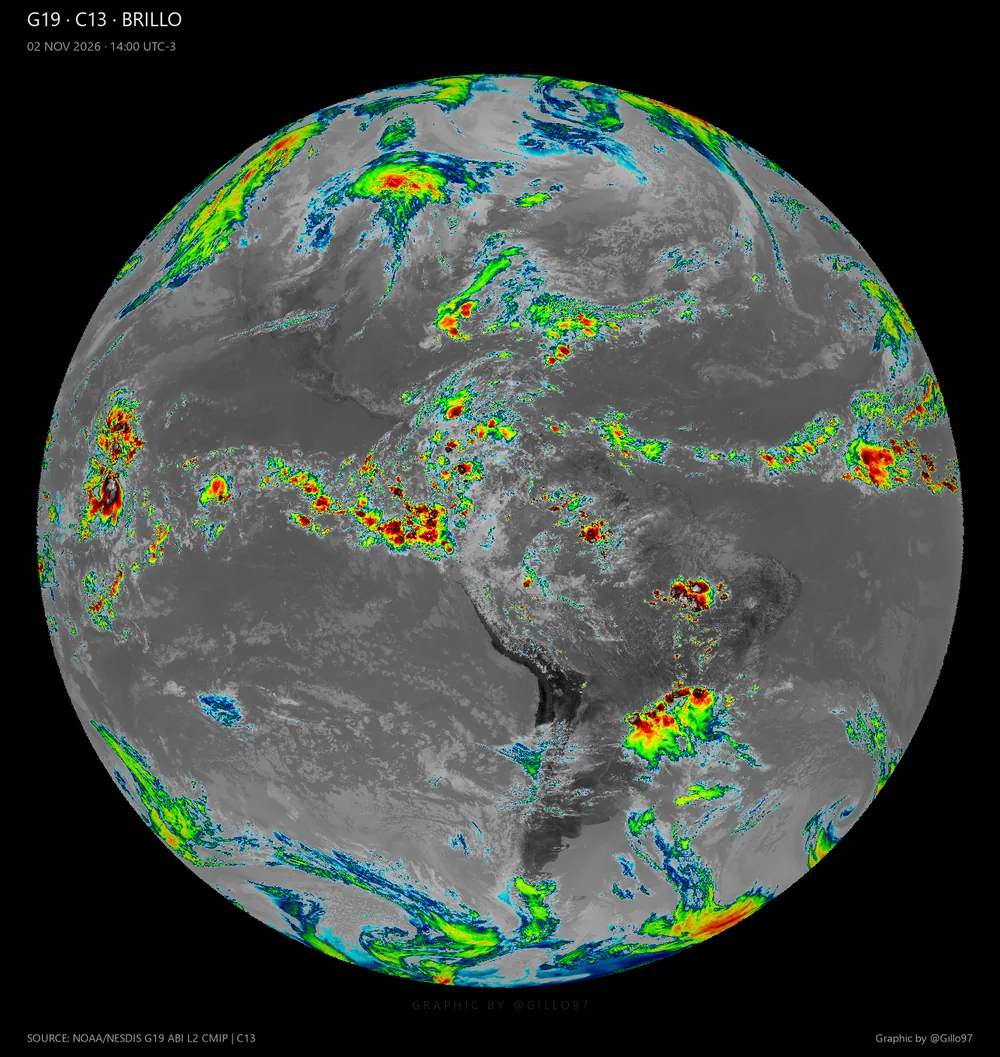
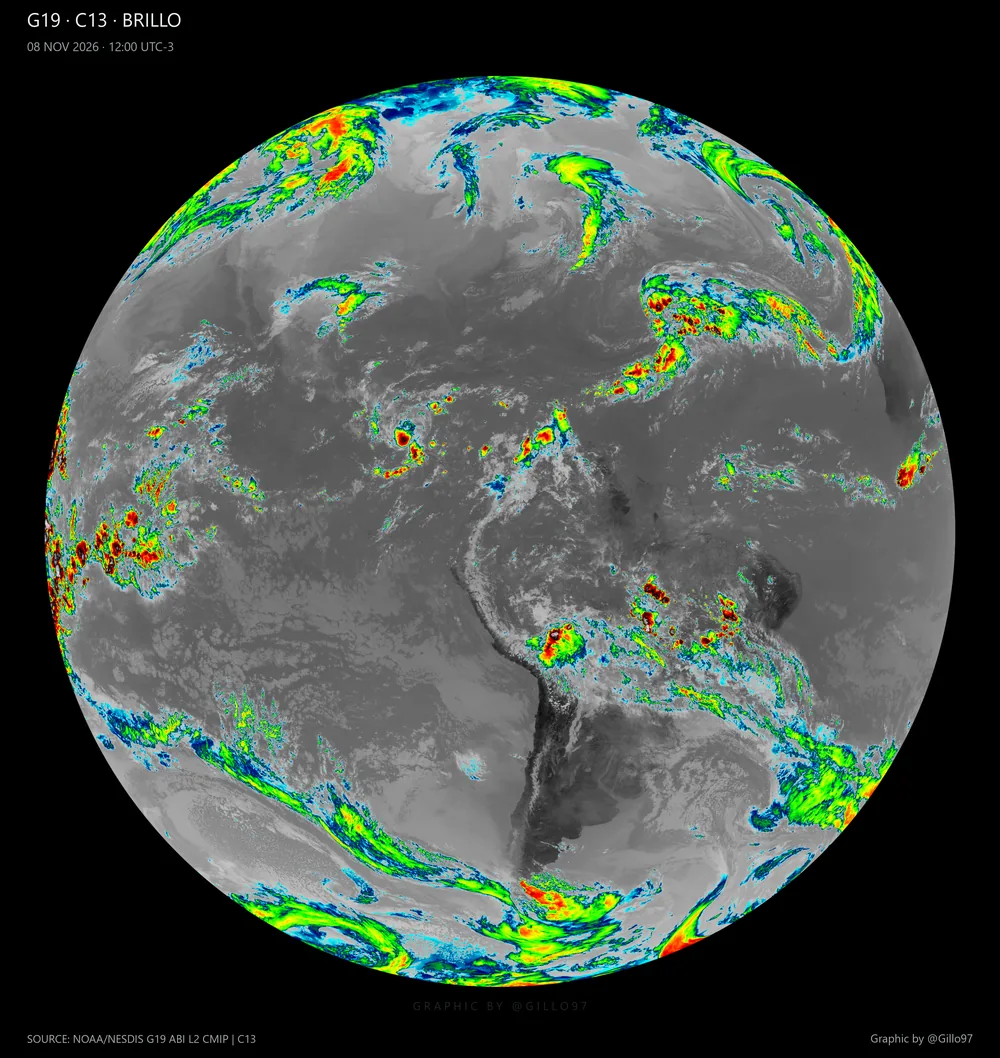
feat(app): covers por banda para goes_banda
- Se agregaron 16 webp (1000 px de ancho) con el render real de cada banda, convertidos de los PNG 2712 que genero la app: C01-C06 en reflectancia, C07 en c07_ir y C08-C16 con su paleta oficial. C07 se renderizo aparte con la misma receta porque faltaba en el set.

- Las placas se nombran goes_banda--G19--<banda>--<paleta>.webp: _VARIANTES ahora admite varias formas de nombre y _muestras elige la mas especifica, asi la placa cambia al cambiar de banda y las viejas por paleta siguen como respaldo (por ejemplo al elegir magma).

- goes_banda.webp pasa a ser el render de C13 (banda por defecto).

diff --git a/app/api/catalog.py b/app/api/catalog.py
@@ -970,7 +970,9 @@ def get_product(product_id: str) -> Product | None:
 # sample.
 _VARIANTES = {
     "goes_c13": ("satelite", "paraguay"),
-    "goes_banda": ("satelite", "paleta"),
+    # Dos formas: la de la banda (la placa cambia al cambiar de canal) y la
+    # vieja por paleta, que queda como respaldo.
+    "goes_banda": (("satelite", "banda", "paleta"), ("satelite", "paleta")),
     "goes_dust": ("satelite", "paraguay"),
     "goes_airmass": ("satelite", "paraguay"),
     "goes_firetemp": ("satelite", "paraguay"),
@@ -984,23 +986,40 @@ _VARIANTES = {
 }
 
 
+def _formas(especificacion) -> tuple[tuple[str, ...], ...]:
+    """Normaliza la declaracion de `_VARIANTES` a una tupla de formas.
+
+    Un producto puede aceptar nombres de archivo con distinta cantidad de
+    campos: `goes_banda--G19--C06--reflectancia` (banda) y el viejo
+    `goes_banda--G19--clean_ir` (solo paleta).
+    """
+    if not especificacion:
+        return ()
+    if isinstance(especificacion[0], str):
+        return (tuple(especificacion),)
+    return tuple(tuple(forma) for forma in especificacion)
+
+
 def _muestras(producto: Product, carpeta: Path) -> list[PreviewVariant]:
     """Variantes que existen en disco para este producto."""
-    campos = _VARIANTES.get(producto.id)
-    if not campos:
+    formas = _formas(_VARIANTES.get(producto.id))
+    if not formas:
         return []
     variantes: list[PreviewVariant] = []
     for archivo in carpeta.glob(f"{producto.id}--*.webp"):
         valores = archivo.stem.split("--")[1:]
-        if len(valores) != len(campos):
-            continue
-        variantes.append(
-            PreviewVariant(
-                url=f"/previews/{archivo.name}",
-                when=dict(zip(campos, valores)),
+        for campos in formas:
+            if len(valores) != len(campos):
+                continue
+            variantes.append(
+                PreviewVariant(
+                    url=f"/previews/{archivo.name}",
+                    when=dict(zip(campos, valores)),
+                )
             )
-        )
-    # La más específica primero: {satélite, paleta} gana sobre {satélite}.
+            break
+    # La más específica primero: {satélite, banda, paleta} gana sobre
+    # {satélite, paleta} y sobre la placa fija del producto.
     variantes.sort(key=lambda v: (-len(v.when), v.url))
     return variantes
 

diff --git a/app/tests/test_recetas_ecmwf.py b/app/tests/test_recetas_ecmwf.py
@@ -254,6 +254,29 @@ class CatalogoDeLaApp(unittest.TestCase):
         modelos = {o.value for o in self._spec("viento_250", "modelo").options}
         self.assertEqual(modelos, {"ifs", "gfs"})
 
+    def test_las_placas_de_banda_cambian_con_el_canal(self):
+        # La placa de `goes_banda` puede venir con la banda en el nombre; esa
+        # es mas especifica y tiene que ganarle a la vieja de solo paleta.
+        producto = catalog.get_product("goes_banda")
+        assert producto is not None
+        with tempfile.TemporaryDirectory() as tmp:
+            carpeta = Path(tmp)
+            for nombre in (
+                "goes_banda--G19--C06--reflectancia.webp",
+                "goes_banda--G19--clean_ir.webp",
+            ):
+                (carpeta / nombre).write_bytes(b"")
+            variantes = catalog._muestras(producto, carpeta)
+
+        self.assertEqual(len(variantes), 2)
+        self.assertEqual(
+            variantes[0].when,
+            {"satelite": "G19", "banda": "C06", "paleta": "reflectancia"},
+        )
+        self.assertEqual(
+            variantes[1].when, {"satelite": "G19", "paleta": "clean_ir"}
+        )
+
 
 class ModeloGfs(unittest.TestCase):
     """S8: GFS como fuente del viento en 250 mb."""
